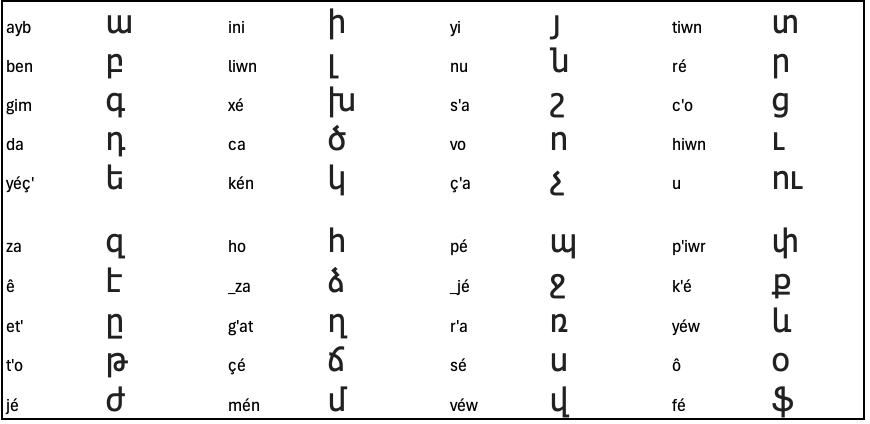
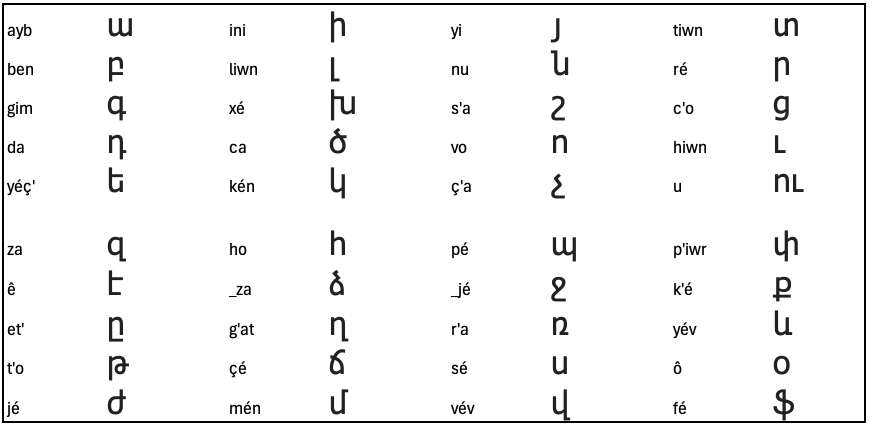
completed Trans_Ha for yé, vo and év

diff --git a/pub/index.html b/pub/index.html
@@ -24,7 +24,7 @@
             <td>c</td><td>k</td><td>h</td><td>_z</td><td>g'</td>
             <td>ç,_c</td><td>m</td><td>y</td><td>n</td><td>s'</td><td>o</td><td>ç',_c'</td>
             <td>p</td><td>_j</td><td>r'</td><td>s</td><td>v</td><td>t</td><td>r</td>
-            <td>c'</td><td>w</td><td>u</td><td>p'</td><td>k'</td><td>_v</td><td>ô</td><td>f</td>
+            <td>c'</td><td>w</td><td>u</td><td>p'</td><td>k'</td><td>év</td><td>ô</td><td>f</td>
         </tr>
       </table>&nbsp;</br>
       <table>

diff --git a/README.MD b/README.MD
@@ -30,7 +30,7 @@ Here is how we chose to transcribe them:
 
 We also use the ' sign (single quotation mark) for the letters ղ (g'), շ (s') and ռ (r').
 
-For the digraph ու, just type u, and for the ligature և (yev), type _v.
+For the digraph ու, just type u, and for the ligature և (yev), type év (yév at beginning of word).
 
 Users not having ç on their keyboard may use _c instead.
 
